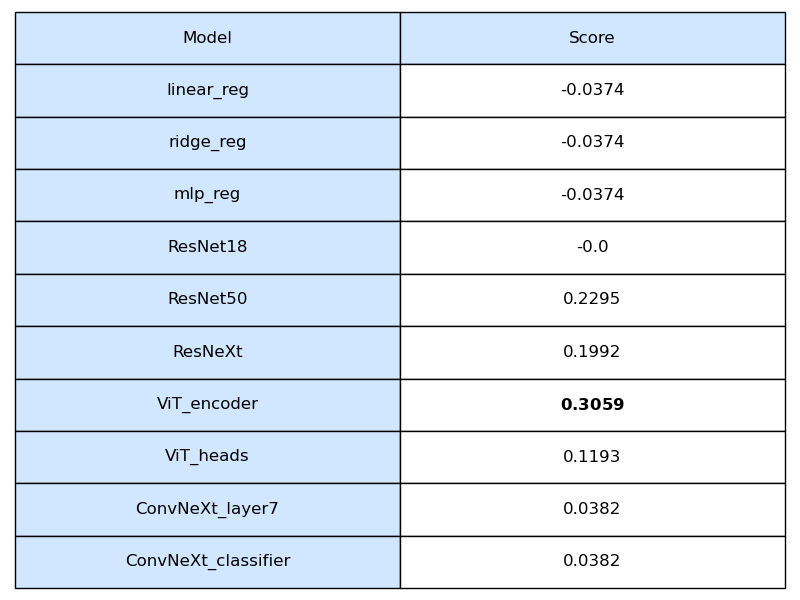
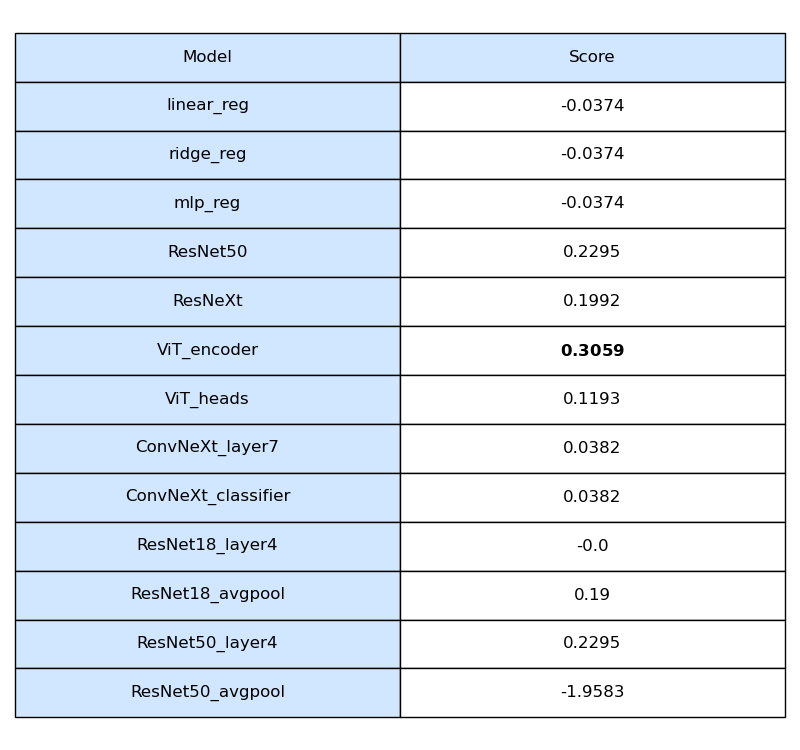
Finished resnet

Changed region(s): [[0.0, 0.0, 1.0, 0.99]]

diff --git a/src/models/resnet18.py b/src/models/resnet18.py
@@ -13,5 +13,6 @@ class ResNet18(IModel):
         """
         Returns the layers on which to do the linear probing.
         """
-        module = self.model.get_submodule("layer4")
-        return [('layer4', module)]
+        module_layer4 = self.model.get_submodule("layer4")
+        module_avgpool = self.model.get_submodule("avgpool")
+        return [('layer4', module_layer4), ('avgpool', module_avgpool)]

diff --git a/src/models/resnet50.py b/src/models/resnet50.py
@@ -13,5 +13,6 @@ class ResNet50(IModel):
         """
         Returns the layers on which to do the linear probing.
         """
-        module = self.model.get_submodule("layer4")
-        return [('layer4', module)]
+        module_layer4 = self.model.get_submodule("layer4")
+        module_avgpool = self.model.get_submodule("avgpool")
+        return [('layer4', module_layer4), ('avgpool', module_avgpool)]
